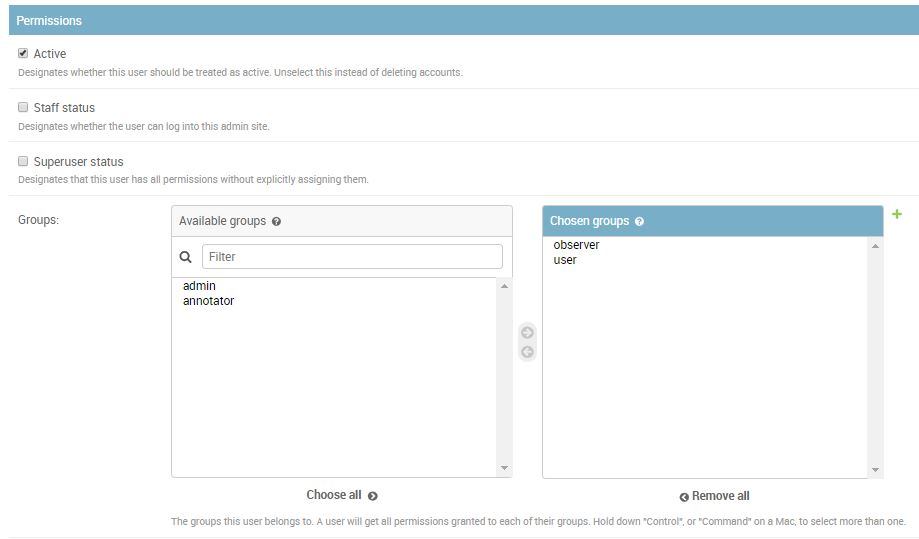
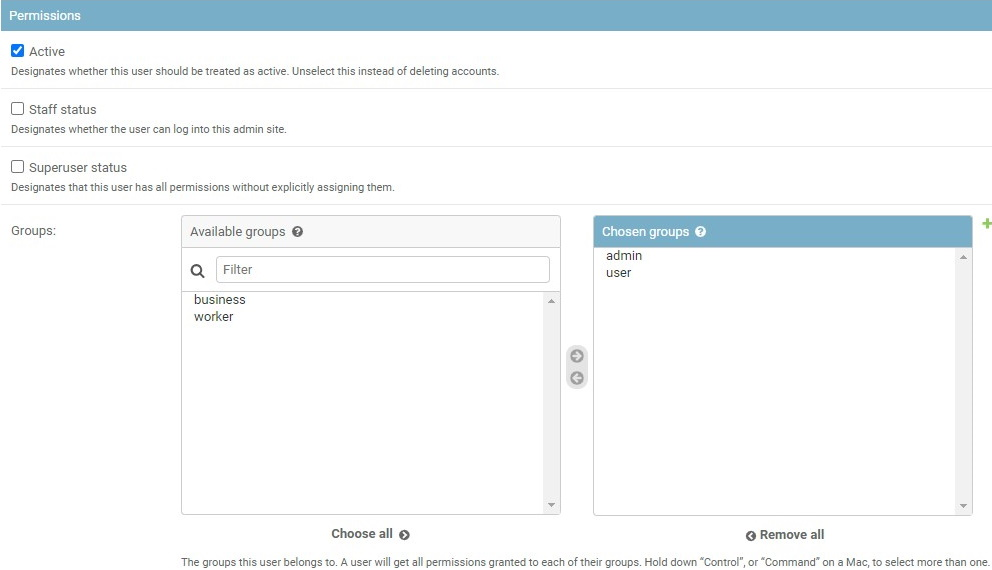
separated procedures in different pages

diff --git a/site/content/en/docs/administration/basics/social-accounts-configuration.md b/site/content/en/docs/administration/basics/social-accounts-configuration.md
@@ -1,0 +1,71 @@
+---
+
+title: 'Social auth configuration'
+linkTitle: 'Social auth configuration'
+weight: 3
+description: 'Social accounts configuration guide'
+
+---
+
+## Enable authentication with a Google account
+
+To enable authentication, do the following:
+
+
+1.  Log in to the [Google Cloud console](https://console.cloud.google.com/)
+2.  [Create a project](https://cloud.google.com/resource-manager/docs/creating-managing-projects), and go to [APIs & Services](https://console.cloud.google.com/apis/)
+3. On the left menu, select **OAuth consent**, then select **User type** (**Internal** or **External**), and click **Create**.
+4. On the **OAuth consent screen** fill all requred fields, and click **Save and Continue**.
+5. On the **Scopes** screen, click **Add or remove scopes** and select `auth/userinfo.email`, `auth/userinfo.profile`, and `openid` . Click **Update**, and **Save and Continue**.
+   <br>For more information, see [Configure Auth Consent](https://developers.google.com/workspace/guides/configure-oauth-consent).
+6. On the left menu, click **Credentials**, on the top menu click **+ Create credentials**, and select **OAuth client ID**.
+7. From the **Application Type** select **Web application** and confugure: **Application name**, **Authorized JavaScript origins**, **Authorized redirect URIs**.
+  <br> For example, if you plan to deploy CVAT instance on `https://localhost:8080`, add `https://localhost:8080` to authorized JS origins and `https://localhost:8080/api/auth/google/login/callback/` to redirect URIs.
+  <br>Please make sure  this URL matches `GOOGLE_CALLBACK_URL` settings variable on the server.
+
+2. Set environment variables in CVAT (use `docker-compose.override.yml`):
+
+  ```yaml
+    version: '3.3'
+    services:
+      cvat_server:
+        environment:
+          USE_ALLAUTH_SOCIAL_ACCOUNTS: "True"
+          SOCIAL_AUTH_GOOGLE_CLIENT_ID: "<YOUR_GOOGLE_CLIENT_ID>"
+          SOCIAL_AUTH_GOOGLE_CLIENT_SECRET: "<YOUR_GOOGLE_CLIENT_SECRET>"
+  ```
+
+  ```bash
+  docker-compose -f docker-compose.yml -f docker-compose.override.yml up -d
+  ```
+
+
+## Enable authentication with a Github account
+
+There are 2 basic steps to enable Github account authentication.
+
+1. Open Github settings page.
+2. On the left menu, click  **<> Developer settings** > **OAuth Apps** > **Register new application**.
+   <br>For more information, see [Creating an OAuth App](https://docs.github.com/en/developers/apps/building-oauth-apps/creating-an-oauth-app)
+3. Fill in the name field, set homepage URL (for example:  `https://localhost:8080`), and authorization callback URL (for example: `https://localhost:8080/api/auth/github/login/callback/`).
+   <br>Please make sure this URL matches `GITHUB_CALLBACK_URL` settings variable on the server.
+4. Set environment variables and up CVAT (use `docker-compose.override.yml`).
+
+  ```yaml
+    version: '3.3'
+    services:
+      cvat_server:
+        environment:
+          USE_ALLAUTH_SOCIAL_ACCOUNTS: "True"
+          SOCIAL_AUTH_GITHUB_CLIENT_ID: "<YOUR_GITHUB_CLIENT_ID>"
+          SOCIAL_AUTH_GITHUB_CLIENT_SECRET: "<YOUR_GITHUB_CLIENT_SECRET>"
+  ```
+
+  ```bash
+  docker-compose -f docker-compose.yml -f docker-compose.override.yml up -d
+  ```
+
+  > **Note:** You can also configure [Github App](https://docs.github.com/en/developers/apps/building-github-apps/creating-a-github-app), but don't forget to add required permissions (permissions & events -> account permissions -> email addresses set to read).
+
+
+You can also configure OAuth with other services, see [Social Auth with Django services](https://django-allauth.readthedocs.io/en/latest/providers.html)

diff --git a/site/content/en/docs/manual/basics/registration.md b/site/content/en/docs/manual/basics/registration.md
@@ -1,0 +1,60 @@
+---
+title: 'Registration'
+linkTitle: 'Registration'
+weight: 1
+---
+
+To start to annotate in CVAT, you need to
+create an account or log in to the existing account.
+
+This section describes [App CVAT](https://app.cvat.ai/), that is sutable
+for small personal projects, that do not require user management.
+It is also ok to use if you just want to try what is CVAT.
+
+While it is easy to use, it has some limitations.
+For example, in App CVAT you cannot create a superuser (admin account)
+or administer user roles. All these features are available
+for [Admin user](/docs/administration/basics/admin-account/) in
+[local version of CVAT](/docs/administration/basics/installation/).
+
+See:
+
+- [User registration](#user-registration)
+- [Account access](#account-access)
+
+
+To creata account or log in, go to the [App CVAT](https://app.cvat.ai/) login page:
+
+ ![](/images/image001.jpg)
+
+ > **Note:** By default authentincation and registration with Google and Git works only for [App CVAT](https://app.cvat.ai/). <br>If you want to use Google and Git authentication on local installation, see [Social auth configuration](/docs/administration/basics/social-accounts-configuration/).
+
+### User registration
+
+To register as a non-admin user, do the following:
+
+1. Click **Create an account**.
+
+   ![Create account](/images/image002.jpg)
+
+2. Fill in all blank fields, accept terms of use, and
+   click the **Create an account** button.
+
+  ![Account form](/images/image003.jpg)
+
+  <br>A username generates from the email automatically. You can edit it if needed.
+
+  ![Usernname generation](/images/filling_email.gif)
+
+
+To register with Google or Github, click the button with the name of the service, and folow instructions on the screen.
+
+### Account access
+
+To access your account, do the following:
+
+1. Go to the login page.
+2. Enter username or email. The password field will appear.
+3. Enter the password and click **Next**.
+
+To log in with Google or Github, click the button with the name of the service.

diff --git a/site/content/en/docs/administration/basics/admin-account.md b/site/content/en/docs/administration/basics/admin-account.md
@@ -1,0 +1,42 @@
+---
+
+title: 'Superuser registration'
+linkTitle: 'Superuser registration'
+weight: 2
+description: 'A CVAT installation guide to create a superuser'
+
+---
+
+This section is for users who whant to be a bit more flexible with CVAT use.
+
+The user you register by default does not have the right to view a list of
+tasks or modify permissions, so you must create a superuser.
+The superuser can use [Django administration panel](http://localhost:8080/admin)
+to assign groups (roles) to other users.
+<br>Available roles are: user (default), admin, worker.
+
+### Prerequisites
+
+Before you register an admin account (superuser), you need to install CVAT locally,
+see [Installation Guide](/docs/administration/basics/installation/).
+
+Steps of installation are partly different, depending on the type of operation system (OS).
+
+This section starts with **Create superuser** step that is common for all OS.
+
+### Register as a superuser
+
+In the process of installation you need to create a superuser:
+
+1. In the Git Bash run the following command:
+
+  ```bash
+    docker exec -it cvat_server bash -ic 'python3 ~/manage.py createsuperuser'
+  ```
+2. Set up username, email adress, and password.
+3. Go to [`localhost:8080`](http://localhost:8080), and log in with credentials from step 2.
+4. (Optional) Go to [Django administration panel](http://localhost:8080/admin) panel to:
+   - Create / edit/delete users
+   - Control permissions of users and access to the tool.
+
+  ![Django panel](/images/image115.jpg)
